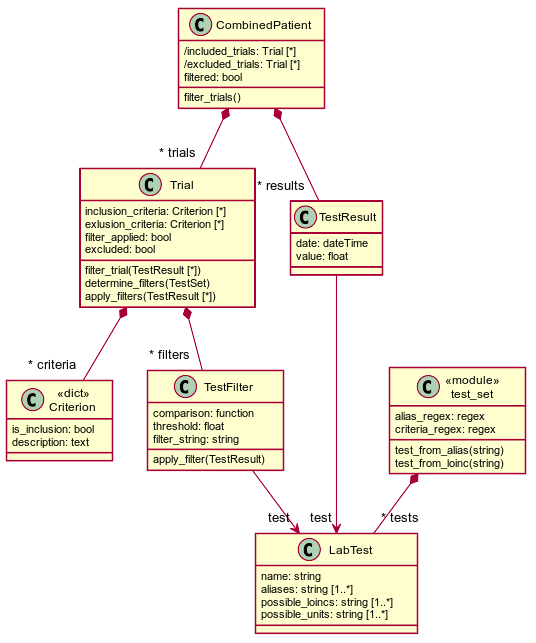
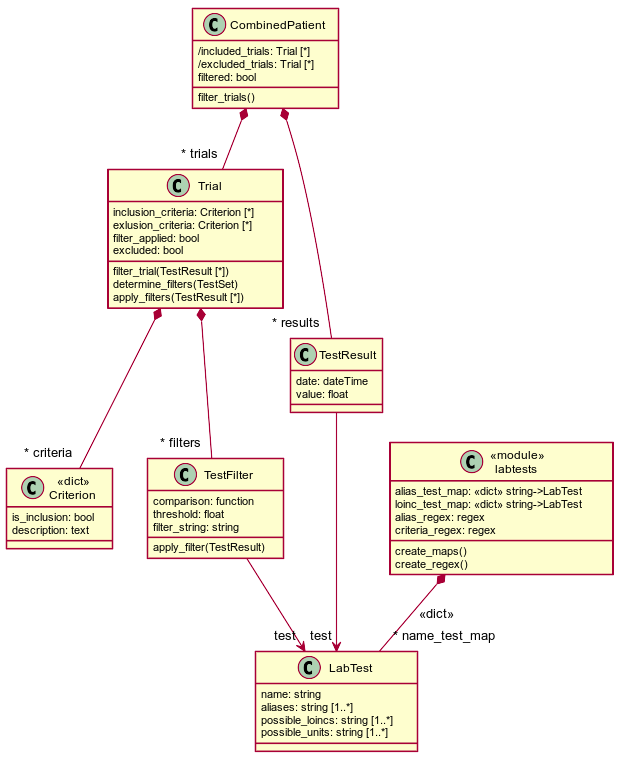
fix automatic github image generation

diff --git a/models/trial_model.md b/models/trial_model.md
@@ -42,7 +42,7 @@ markdown:
         alias_test_map: <<dict>> string->LabTest
         loinc_test_map: <<dict>> string->LabTest
         alias_regex: regex
-        criteria_regex: regexgit status
+        criteria_regex: regex
         create_maps()
         create_regex()
     }
@@ -58,4 +58,5 @@ markdown:
     Trial *-- "~* criteria" Criterion 
     TestFilter --> "test" LabTest
     labtests *-- "~* name_test_map" LabTest : <<dict>>
-@enduml```
+@enduml
+```

diff --git a/models/output.md b/models/output.md
@@ -1,4 +1,4 @@
   
 
-![](../assets/fbd2c4102756c0cf421346d8b6db23b00.png?0.9101889896488056)  
+![](../assets/fbd2c4102756c0cf421346d8b6db23b00.png?0.1797143165024706)  
   
